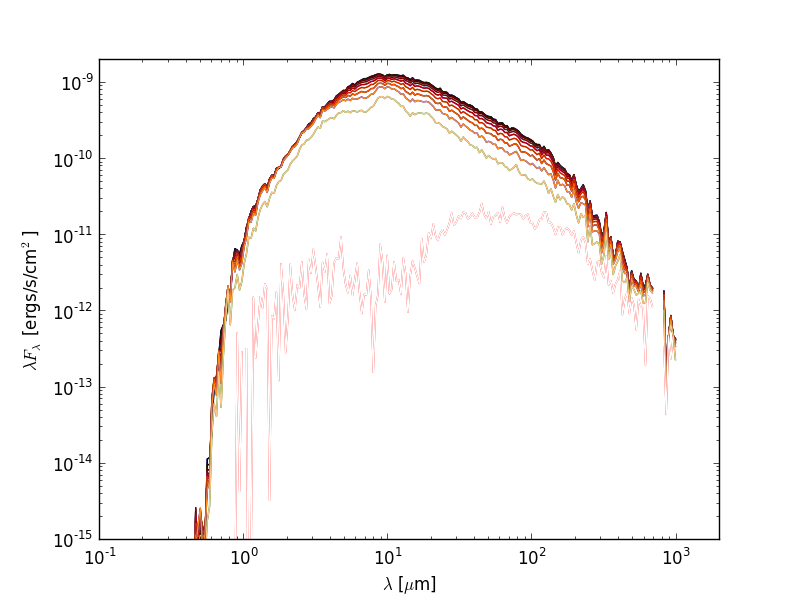
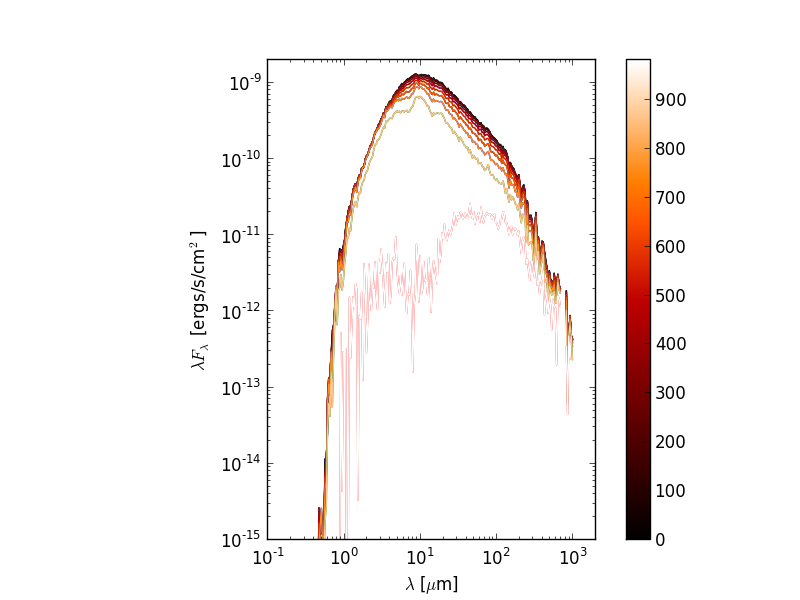
sed now with colorbar, but weird labels???

diff --git a/plot_sed.py b/plot_sed.py
@@ -30,12 +30,16 @@ for k in range(len(j)):
     print 'incination', i
     
     wav, nufnu = m.get_sed(inclination=i, aperture=-1, distance=300 * pc)
-    lines=ax.loglog(wav,nufnu.transpose())
-    #fig.colorbar(lines)
-
     # Plot the SED. The loglog command is similar to plot, but automatically
     # sets the x and y axes to be on a log scale.
+    lines = ax.loglog(wav,nufnu.transpose())
+    
     ax.loglog(wav, nufnu,color=g)
+
+#colorbar    
+image = wav,nufnu.transpose()
+lines = ax.imshow(image,cmap=plt.cm.gist_heat)    
+fig.colorbar(lines)
 
 # Add some axis labels (we are using LaTeX here)
 ax.set_xlabel(r'$\lambda$ [$\mu$m]')
